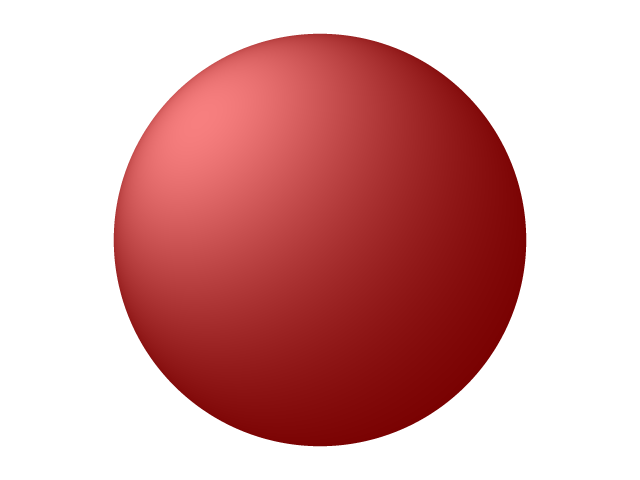
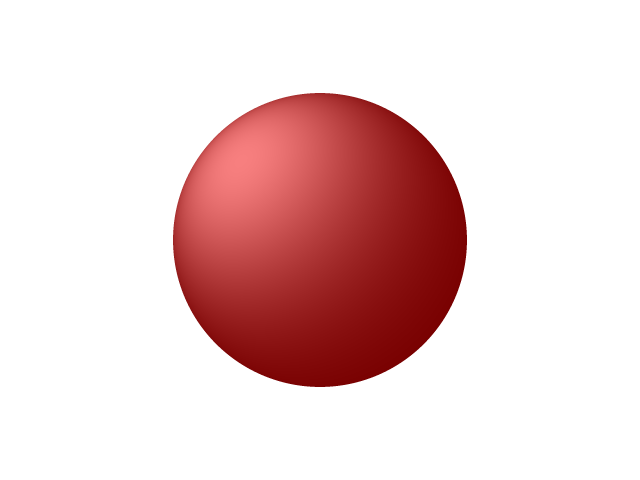
changed image size

Changed region(s): [[0.1562, 0.0625, 0.8438, 0.9375]]

diff --git a/main.go b/main.go
@@ -116,7 +116,7 @@ func main() {
 
 	s := sphere{
 		Center: vector{0.0, 0.0, -9.0},
-		Radius: 4.0,
+		Radius: 3.0,
 		Color:  color.RGBA{240, 0, 0, 255},
 	}
 
